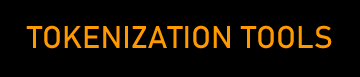
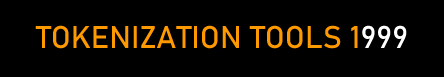
Add files via upload

Changed region(s): [[0.0611, 0.3117, 0.9472, 0.6494]]

diff --git a/index.html b/index.html
@@ -70,7 +70,7 @@ function MM_swapImage() { //v3.0
 </p>
 <table width="200" border="0" align="center">
   <tr>
-    <td><img src="TITLE01.png" width="360" height="77" /></td>
+    <td><img src="TITLE01.png" width="444" height="77" /></td>
   </tr>
 </table>
 <table width="200" border="0" align="center">
